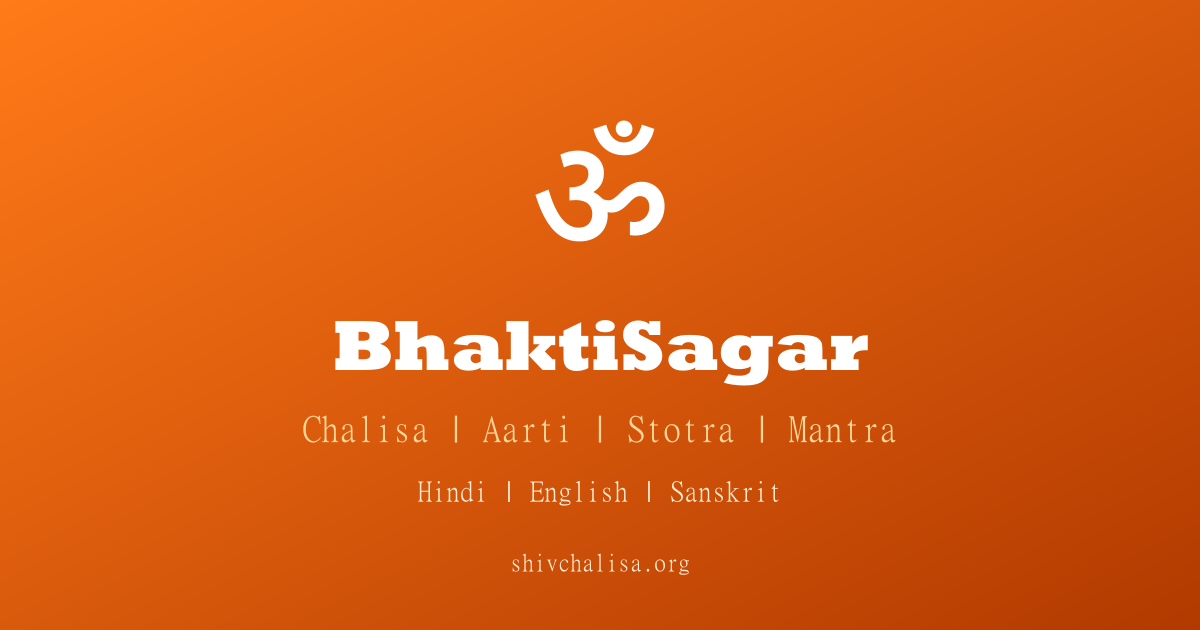
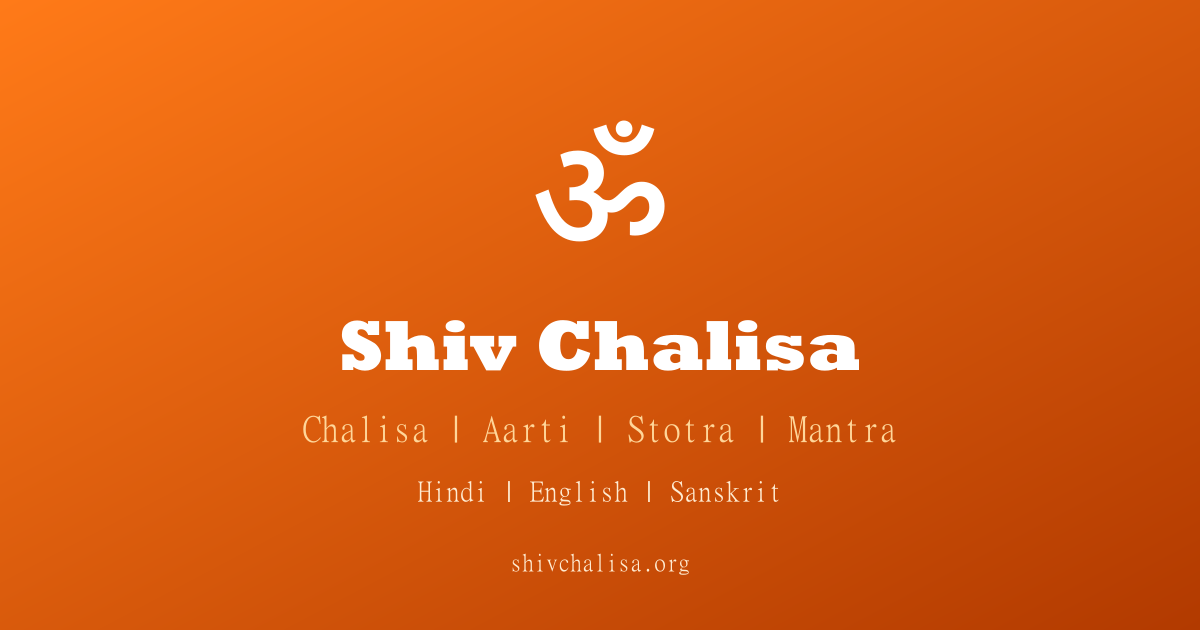
Rebrand BhaktiSagar -> Shiv Chalisa; drop brand suffix from page titles
- Rename the brand across all 24 source files, manifest, and the og-image graphic
  (regenerated all PNGs so social cards show the new wordmark).
- Drop the "| BhaktiSagar" suffix from every page title rather than swapping it for
  "| Shiv Chalisa", which would have produced "Shiv Chalisa - ... | Shiv Chalisa" on
  the flagship page. Titles are now keyword-first and under ~60 chars.
- Fix the duplication the rename introduced in the root default title and description.
- Replace the stale "bhaktisagar" keyword with Devanagari शिव चालीसा.
- Update the header wordmark, which was split across a span and missed by the rename.

Changed region(s): [[0.2775, 0.4825, 0.74, 0.6333]]

diff --git a/src/app/layout.tsx b/src/app/layout.tsx
@@ -6,20 +6,20 @@ import Footer from "@/components/Footer";
 export const metadata: Metadata = {
   metadataBase: new URL("https://shivchalisa.org"),
   title: {
-    default: "BhaktiSagar - Shiv Chalisa, Hanuman Chalisa, Aarti, Stotra & Mantra in Hindi, English & Sanskrit",
-    template: "%s | BhaktiSagar",
+    default: "Shiv Chalisa – Chalisa, Aarti, Stotra & Mantra Lyrics with Meaning",
+    template: "%s",
   },
   description:
-    "BhaktiSagar - Read Shiv Chalisa, Hanuman Chalisa, Durga Aarti and other Hindu devotional texts with lyrics and meaning in Hindi, English and Sanskrit.",
+    "Read Shiv Chalisa, Hanuman Chalisa, Durga Aarti and other Hindu devotional texts with lyrics and meaning in Hindi, English and Sanskrit.",
   keywords: [
-    "bhaktisagar", "chalisa", "aarti", "stotra", "mantra", "shiv chalisa",
+    "shiv chalisa", "chalisa", "aarti", "stotra", "mantra",
     "hanuman chalisa", "devotional", "bhakti", "hindu prayer", "puja",
     "shiv chalisa lyrics", "hanuman chalisa lyrics", "aarti sangrah",
     "hindu devotional songs", "sanskrit stotra", "hindu mantra",
-    "shree shiv chalisa", "बजरंग बाण", "हनुमान चालीसा",
+    "shree shiv chalisa", "शिव चालीसा", "हनुमान चालीसा",
   ],
-  authors: [{ name: "BhaktiSagar", url: "https://shivchalisa.org" }],
-  publisher: "BhaktiSagar",
+  authors: [{ name: "Shiv Chalisa", url: "https://shivchalisa.org" }],
+  publisher: "Shiv Chalisa",
   formatDetection: {
     telephone: true,
     email: false,
@@ -27,14 +27,14 @@ export const metadata: Metadata = {
   },
   openGraph: {
     type: "website",
-    siteName: "BhaktiSagar",
+    siteName: "Shiv Chalisa",
     locale: "en_IN",
     images: [
       {
         url: "/og-image.png",
         width: 1200,
         height: 630,
-        alt: "BhaktiSagar - Devotional Texts in Hindi, English & Sanskrit",
+        alt: "Shiv Chalisa - Devotional Texts in Hindi, English & Sanskrit",
       },
     ],
   },
@@ -80,7 +80,7 @@ export default function RootLayout({ children }: { children: React.ReactNode }) 
             __html: JSON.stringify({
               "@context": "https://schema.org",
               "@type": "WebSite",
-              name: "BhaktiSagar",
+              name: "Shiv Chalisa",
               url: "https://shivchalisa.org/",
               description: "Read Shiv Chalisa, Hanuman Chalisa, Durga Aarti and other Hindu devotional texts with lyrics and meaning in Hindi, English and Sanskrit.",
               potentialAction: {
@@ -100,10 +100,10 @@ export default function RootLayout({ children }: { children: React.ReactNode }) 
             __html: JSON.stringify({
               "@context": "https://schema.org",
               "@type": "Organization",
-              name: "BhaktiSagar",
+              name: "Shiv Chalisa",
               url: "https://shivchalisa.org",
               logo: "https://shivchalisa.org/favicon.svg",
-              description: "BhaktiSagar - Read Shiv Chalisa, Hanuman Chalisa, Durga Aarti and other Hindu devotional texts with lyrics and meaning in Hindi, English and Sanskrit.",
+              description: "Shiv Chalisa - Read Shiv Chalisa, Hanuman Chalisa, Durga Aarti and other Hindu devotional texts with lyrics and meaning in Hindi, English and Sanskrit.",
               sameAs: [],
               contactPoint: {
                 "@type": "ContactPoint",

diff --git a/src/app/about/page.tsx b/src/app/about/page.tsx
@@ -3,9 +3,9 @@ import Link from "next/link";
 import { ALL_CONTENT } from "@/data";
 
 export const metadata: Metadata = {
-  title: { absolute: "About BhaktiSagar – Who We Are & How We Source Our Texts | BhaktiSagar" },
+  title: { absolute: "About Shiv Chalisa – Who We Are & How We Source Our Texts" },
   description:
-    "About BhaktiSagar: who maintains the site, where our Chalisa, Aarti, Stotra and Mantra texts come from, and how we check each transcription.",
+    "About Shiv Chalisa: who maintains the site, where our Chalisa, Aarti, Stotra and Mantra texts come from, and how we check each transcription.",
   alternates: { canonical: "https://shivchalisa.org/about" },
 };
 
@@ -24,11 +24,11 @@ export default function AboutPage() {
         className="font-extrabold mb-4"
         style={{ fontSize: "clamp(1.5rem,4vw,2rem)", color: "var(--deep)" }}
       >
-        About BhaktiSagar
+        About Shiv Chalisa
       </h1>
 
       <p className="text-base leading-relaxed mb-6" style={{ color: "var(--ink)" }}>
-        BhaktiSagar is an independent devotional-text library published by Rocket Internet.
+        Shiv Chalisa is an independent devotional-text library published by Rocket Internet.
         We publish Hindu devotional texts — Chalisa, Aarti, Stotra and Mantra — with the full
         original verses in Devanagari, a Roman transliteration, and a plain-English meaning for
         every verse. The site is free, carries no advertising, and needs no account to read.
@@ -80,7 +80,7 @@ export default function AboutPage() {
         style={{ background: "var(--cream-2)", border: "1px solid var(--line)" }}
       >
         <p className="text-sm" style={{ color: "var(--muted)" }}>
-          BhaktiSagar is not affiliated with any temple, religious organisation or commercial
+          Shiv Chalisa is not affiliated with any temple, religious organisation or commercial
           publisher. Nothing here is a substitute for guidance from a qualified teacher or priest,
           and nothing on this site is medical, legal or financial advice.
         </p>

diff --git a/src/app/page.tsx b/src/app/page.tsx
@@ -6,7 +6,7 @@ import ContentCard from "@/components/ContentCard";
 
 export const metadata: Metadata = {
   title: {
-    absolute: "Shiv Chalisa, Hanuman Chalisa & Aarti – Lyrics & Meaning | BhaktiSagar",
+    absolute: "Shiv Chalisa, Hanuman Chalisa & Aarti – Lyrics & Meaning",
   },
   description:
     "Read Shiv Chalisa, Hanuman Chalisa, Durga Aarti and other Hindu devotional texts with lyrics and meaning in Hindi, English & Sanskrit.",
@@ -19,7 +19,7 @@ export const metadata: Metadata = {
         url: "/og-image.png",
         width: 1200,
         height: 630,
-        alt: "BhaktiSagar - Devotional Texts in Hindi, English & Sanskrit",
+        alt: "Shiv Chalisa - Devotional Texts in Hindi, English & Sanskrit",
       },
     ],
   },
@@ -178,7 +178,7 @@ export default function HomePage() {
         </div>
       </section>
 
-      {/* ── Why BhaktiSagar ──────────────────────────────────── */}
+      {/* ── Why Shiv Chalisa ──────────────────────────────────── */}
       <section
         className="max-w-6xl mx-auto px-4 mt-14 mb-4 rounded-3xl py-10 text-center"
         style={{ background: "var(--cream-2)" }}
@@ -187,7 +187,7 @@ export default function HomePage() {
           className="font-bold mb-8"
           style={{ fontSize: "1.35rem", color: "var(--deep)" }}
         >
-          Why BhaktiSagar?
+          Why Shiv Chalisa?
         </h2>
         <div className="grid grid-cols-2 sm:grid-cols-4 gap-6 max-w-3xl mx-auto">
           {[

diff --git a/src/data/mahamrityunjaya-mantra.ts b/src/data/mahamrityunjaya-mantra.ts
@@ -5,7 +5,7 @@ const mahamrityunjayaMantra: ContentItem = {
   category: "mantra",
   deity: "shiva",
   title: { hindi: "महामृत्युञ्जय मन्त्र", english: "Mahamrityunjaya Mantra" },
-  metaTitle: "Mahamrityunjaya Mantra – महामृत्युञ्जय मन्त्र Lyrics, Meaning & Benefits | BhaktiSagar",
+  metaTitle: "Mahamrityunjaya Mantra – महामृत्युञ्जय मन्त्र Lyrics, Meaning & Benefits",
   metaDescription: "Read the Mahamrityunjaya Mantra (महामृत्युञ्जय मन्त्र) in Sanskrit with meaning, benefits and how to chant. The great death-conquering mantra of Lord Shiva from the Rigveda.",
   keywords: ["mahamrityunjaya mantra","mahamrityunjaya mantra lyrics","महामृत्युञ्जय मन्त्र","maha mrityunjaya mantra","mahamrityunjay mantra meaning","mahamrityunjaya mantra benefits","tryambakam yajamahe","shiva mantra","mrityunjaya mantra"],
   intro: "The Mahamrityunjaya Mantra (महामृत्युञ्जय मन्त्र) — also called the Tryambakam Mantra — is one of the most ancient and powerful mantras in the Vedic tradition. Found in the Rigveda (7.59.12), it is a prayer to Lord Shiva as the conqueror of death, asking for liberation from the cycle of birth and death. It is considered the supreme healing mantra in all of Hinduism.",

diff --git a/src/data/shiv-tandav-stotram.ts b/src/data/shiv-tandav-stotram.ts
@@ -5,7 +5,7 @@ const shivTandavStotram: ContentItem = {
   category: "stotra",
   deity: "shiva",
   title: { hindi: "शिव तांडव स्तोत्रम्", english: "Shiv Tandav Stotram" },
-  metaTitle: "Shiv Tandav Stotram – शिव तांडव स्तोत्रम् Lyrics in Sanskrit & Hindi with Meaning | BhaktiSagar",
+  metaTitle: "Shiv Tandav Stotram – शिव तांडव स्तोत्रम् Lyrics in Sanskrit & Hindi with Meaning",
   metaDescription: "Read Shiv Tandav Stotram (शिव तांडव स्तोत्रम्) full lyrics in Sanskrit and Hindi with meaning. The most powerful Shiva hymn composed by Ravana.",
   keywords: ["shiv tandav stotram","shiv tandav","शिव तांडव स्तोत्रम्","shiv tandav lyrics","shiv tandav meaning","shiv tandav stotram in hindi","shiv tandav stotram sanskrit","ravana shiv stotram","shiv tandav audio"],
   intro: "Shiv Tandav Stotram (शिव तांडव स्तोत्रम्) is one of the most powerful and musically celebrated hymns in all of Sanskrit literature. It was composed by the learned Ravana — king of Lanka — while performing penance for Lord Shiva. The poem's thundering rhythm imitates the cosmic dance (Tandava) of Shiva himself.",

diff --git a/src/data/gayatri-mantra.ts b/src/data/gayatri-mantra.ts
@@ -5,7 +5,7 @@ const gayatriMantra: ContentItem = {
   category: "mantra",
   deity: "surya",
   title: { hindi: "गायत्री मन्त्र", english: "Gayatri Mantra" },
-  metaTitle: "Gayatri Mantra – गायत्री मन्त्र Lyrics in Sanskrit & Hindi with Meaning & Benefits | BhaktiSagar",
+  metaTitle: "Gayatri Mantra – गायत्री मन्त्र Lyrics in Sanskrit & Hindi with Meaning & Benefits",
   metaDescription: "Read the Gayatri Mantra (गायत्री मन्त्र) in Sanskrit with full meaning word by word, benefits and how to chant. The most sacred Vedic mantra.",
   keywords: ["gayatri mantra","gayatri mantra lyrics","गायत्री मन्त्र","gayatri mantra meaning","gayatri mantra in hindi","gayatri mantra benefits","gayatri mantra sanskrit","om bhur bhuvas swah","vedic mantra","gayatri mantra 108 times"],
   intro: "The Gayatri Mantra (गायत्री मन्त्र) is the most sacred and universally revered mantra in Hinduism. Found in the Rigveda (3.62.10), it is a prayer to the divine light of the Sun (Savitur) — asking it to illuminate our intellect and guide our thoughts. For thousands of years, it has been chanted daily at sunrise, noon and sunset.",

diff --git a/src/data/hanuman-aarti.ts b/src/data/hanuman-aarti.ts
@@ -5,7 +5,7 @@ const hanumanAarti: ContentItem = {
   category: "aarti",
   deity: "hanuman",
   title: { hindi: "आरती कीजे हनुमान लला की – हनुमान आरती", english: "Hanuman Aarti – Aarti Kije Hanuman Lala Ki" },
-  metaTitle: "Hanuman Aarti – आरती कीजे हनुमान लला की Lyrics in Hindi & English | BhaktiSagar",
+  metaTitle: "Hanuman Aarti – आरती कीजे हनुमान लला की Lyrics in Hindi & English",
   metaDescription: "Read Hanuman Aarti (आरती कीजे हनुमान लला की) full lyrics in Hindi and English with meaning. The most popular Bajrangbali Aarti for courage and protection.",
   keywords: ["hanuman aarti","aarti kije hanuman lala ki","hanuman aarti lyrics","हनुमान आरती","bajrangbali aarti","hanuman aarti in hindi","hanuman aarti meaning"],
   intro: "Hanuman Aarti — 'आरती कीजे हनुमान लला की' — is the most beloved prayer sung in honour of Lord Hanuman, the mighty son of the Wind. Performed after reciting the Hanuman Chalisa, this aarti fills the devotee with courage, devotion and Lord Hanuman's protective blessings.",

diff --git a/src/data/lakshmi-aarti.ts b/src/data/lakshmi-aarti.ts
@@ -5,7 +5,7 @@ const lakshmiAarti: ContentItem = {
   category: "aarti",
   deity: "lakshmi",
   title: { hindi: "ॐ जय लक्ष्मी माता – लक्ष्मी आरती", english: "Lakshmi Aarti – Om Jai Lakshmi Mata" },
-  metaTitle: "Lakshmi Aarti – ॐ जय लक्ष्मी माता Lyrics in Hindi & English with Meaning | BhaktiSagar",
+  metaTitle: "Lakshmi Aarti – ॐ जय लक्ष्मी माता Lyrics in Hindi & English with Meaning",
   metaDescription: "Read Lakshmi Aarti (ॐ जय लक्ष्मी माता) full lyrics in Hindi and English with meaning. The most popular Goddess Lakshmi Aarti for wealth, prosperity and happiness.",
   keywords: ["lakshmi aarti","om jai lakshmi mata","lakshmi aarti lyrics","लक्ष्मी आरती","maa lakshmi aarti","om jai lakshmi mata lyrics","lakshmi aarti in hindi","diwali aarti"],
   intro: "Lakshmi Aarti — 'ॐ जय लक्ष्मी माता' — is one of the most sung prayers in Hindu households, performed every Friday and especially on Diwali. It praises Goddess Lakshmi — the goddess of wealth, beauty, fortune and auspiciousness — and seeks her blessings for prosperity and happiness.",

diff --git a/src/data/ganesh-aarti.ts b/src/data/ganesh-aarti.ts
@@ -5,7 +5,7 @@ const ganeshAarti: ContentItem = {
   category: "aarti",
   deity: "ganesha",
   title: { hindi: "जय गणेश जय गणेश देवा – गणेश आरती", english: "Ganesh Aarti – Jai Ganesh Jai Ganesh Deva" },
-  metaTitle: "Ganesh Aarti – जय गणेश जय गणेश देवा Lyrics in Hindi & English with Meaning | BhaktiSagar",
+  metaTitle: "Ganesh Aarti – जय गणेश जय गणेश देवा Lyrics in Hindi & English with Meaning",
   metaDescription: "Read Ganesh Aarti (जय गणेश जय गणेश देवा) full lyrics in Hindi and English with meaning. Sung before every puja and on Ganesh Chaturthi.",
   keywords: ["ganesh aarti","jai ganesh jai ganesh deva","ganesh aarti lyrics","गणेश आरती","ganpati aarti","ganesh aarti in hindi","ganesh chaturthi aarti","jai ganesh deva"],
   intro: "Ganesh Aarti — 'जय गणेश जय गणेश देवा' — is one of the most universally sung devotional aartis in India. Since Lord Ganesha is the first deity to be worshipped before any puja or new beginning, this Aarti is heard in virtually every Hindu household and temple every single day.",

diff --git a/src/data/vishnu-aarti.ts b/src/data/vishnu-aarti.ts
@@ -5,7 +5,7 @@ const vishnuAarti: ContentItem = {
   category: "aarti",
   deity: "vishnu",
   title: { hindi: "ॐ जय जगदीश हरे – विष्णु आरती", english: "Vishnu Aarti – Om Jai Jagdish Hare" },
-  metaTitle: "Vishnu Aarti – ॐ जय जगदीश हरे Lyrics in Hindi & English with Meaning | BhaktiSagar",
+  metaTitle: "Vishnu Aarti – ॐ जय जगदीश हरे Lyrics in Hindi & English with Meaning",
   metaDescription: "Read Vishnu Aarti (ॐ जय जगदीश हरे) full lyrics in Hindi and English with meaning. The most widely sung Aarti in Hindu homes.",
   keywords: ["vishnu aarti","om jai jagdish hare","jai jagdish hare","om jai jagdish hare lyrics","विष्णु आरती","jagdish aarti","hari aarti","vishnu aarti in hindi","om jai jagdish hare meaning"],
   intro: "Vishnu Aarti — 'ॐ जय जगदीश हरे' — is the single most widely sung Aarti in Hindu households across India. Composed by Pandit Shardaram Bhaktmal in 1870, it is performed in virtually every Hindu home during the evening puja. Its simple, universal melody makes it accessible to devotees of all ages.",

diff --git a/src/data/durga-chalisa.ts b/src/data/durga-chalisa.ts
@@ -5,7 +5,7 @@ const durgaChalisa: ContentItem = {
   category: "chalisa",
   deity: "durga",
   title: { hindi: "श्री दुर्गा चालीसा", english: "Durga Chalisa" },
-  metaTitle: "Durga Chalisa – श्री दुर्गा चालीसा Lyrics in Hindi & English with Meaning | BhaktiSagar",
+  metaTitle: "Durga Chalisa – श्री दुर्गा चालीसा Lyrics in Hindi & English with Meaning",
   metaDescription: "Read Durga Chalisa (दुर्गा चालीसा) in Hindi and English with meaning and benefits. Invoke Maa Durga's blessings for strength and protection.",
   keywords: ["durga chalisa","durga chalisa lyrics","durga chalisa in hindi","दुर्गा चालीसा","maa durga chalisa","durga chalisa meaning","durga chalisa pdf","durga chalisa audio"],
   intro: "Durga Chalisa (श्री दुर्गा चालीसा) is a devotional hymn in praise of Goddess Durga — the invincible mother who embodies Shakti, the supreme cosmic energy. Reciting Durga Chalisa fills the devotee with courage, destroys obstacles, and invokes the protective grace of Maa Durga.",

diff --git a/src/data/durga-aarti.ts b/src/data/durga-aarti.ts
@@ -5,7 +5,7 @@ const durgaAarti: ContentItem = {
   category: "aarti",
   deity: "durga",
   title: { hindi: "जय अम्बे गौरी – दुर्गा आरती", english: "Durga Aarti – Jai Ambe Gauri" },
-  metaTitle: "Durga Aarti – जय अम्बे गौरी Lyrics in Hindi & English with Meaning | BhaktiSagar",
+  metaTitle: "Durga Aarti – जय अम्बे गौरी Lyrics in Hindi & English with Meaning",
   metaDescription: "Read Durga Aarti (जय अम्बे गौरी) full lyrics in Hindi and English with meaning. The most popular Maa Durga Aarti sung during Navratri and daily puja.",
   keywords: ["durga aarti","jai ambe gauri","durga aarti lyrics","दुर्गा आरती","maa durga aarti","jai ambe gauri lyrics","durga aarti in hindi","navratri aarti"],
   intro: "Durga Aarti — 'जय अम्बे गौरी' — is the most beloved prayer sung in honour of Goddess Durga. Performed at the culmination of every Durga puja, this aarti is especially resounding during the nine nights of Navratri when millions of devotees sing it in unison.",
